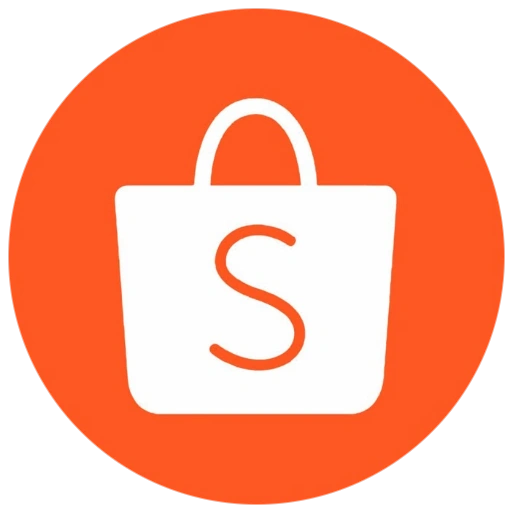
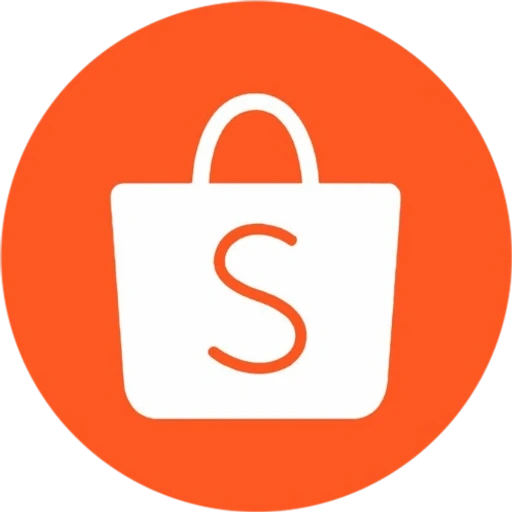
Correção

diff --git a/src/components/subscriptions/SubscriptionLogo.tsx b/src/components/subscriptions/SubscriptionLogo.tsx
@@ -59,13 +59,13 @@ export const SubscriptionLogo: React.FC<SubscriptionLogoProps> = ({
   const badgeSize = Math.max(16, Math.round(size * 0.40));
   const iconSize = Math.round(size * 0.52);
 
-  // Helper para renderizar logos oficiais com acabamento perfeito
+  // Helper para renderizar logos oficiais com acabamento perfeito (sem bordas ou anéis artificiais)
   const renderOfficialLogo = (
     src: string,
     alt: string,
     bgColor = 'transparent',
-    imgScale = '82%',
-    objectFit: 'contain' | 'cover' = 'contain'
+    imgScale = '100%',
+    objectFit: 'contain' | 'cover' = 'cover'
   ) => (
     <div
       style={{
@@ -96,7 +96,7 @@ export const SubscriptionLogo: React.FC<SubscriptionLogoProps> = ({
   const renderBrandContent = () => {
     // 1. Netflix (Logo Oficial)
     if (normName.includes('netflix')) {
-      return renderOfficialLogo(netflixImg, 'Netflix', '#000000');
+      return renderOfficialLogo(netflixImg, 'Netflix', '#000000', '100%', 'cover');
     }
 
     // 2. Spotify (Logo Oficial)
@@ -106,7 +106,7 @@ export const SubscriptionLogo: React.FC<SubscriptionLogoProps> = ({
       normName.startsWith('spot*') ||
       normName.includes('spot ')
     ) {
-      return renderOfficialLogo(spotifyImg, 'Spotify', '#1ED760');
+      return renderOfficialLogo(spotifyImg, 'Spotify', '#1ED760', '100%', 'cover');
     }
 
     // 3. Amazon Prime / Prime Video (Logo Oficial) - Apenas se for explicitamente Prime Video ou Amazon Prime
@@ -118,7 +118,7 @@ export const SubscriptionLogo: React.FC<SubscriptionLogoProps> = ({
       normName === 'prime';
 
     if (isPrimeVideo) {
-      return renderOfficialLogo(primeVideoImg, 'Prime Video', '#00A8E1');
+      return renderOfficialLogo(primeVideoImg, 'Prime Video', '#00A8E1', '100%', 'cover');
     }
 
     // 4. Amazon (Compras / E-commerce) - Logo Oficial com a seta sorridente
@@ -128,7 +128,7 @@ export const SubscriptionLogo: React.FC<SubscriptionLogoProps> = ({
       normName.startsWith('amz*') ||
       normName.startsWith('amazon*')
     ) {
-      return renderOfficialLogo(amazonImg, 'Amazon', '#FFFFFF');
+      return renderOfficialLogo(amazonImg, 'Amazon', '#FFFFFF', '100%', 'cover');
     }
 
     // 4. Max / HBO Max (Logo Oficial)
@@ -138,7 +138,7 @@ export const SubscriptionLogo: React.FC<SubscriptionLogoProps> = ({
       normName.includes('hbo max') ||
       /\bmax\b/i.test(normName)
     ) {
-      return renderOfficialLogo(maxImg, 'Max', '#000000');
+      return renderOfficialLogo(maxImg, 'Max', '#000000', '100%', 'cover');
     }
 
     // 5. Disney+ (Logo Oficial)
@@ -147,7 +147,7 @@ export const SubscriptionLogo: React.FC<SubscriptionLogoProps> = ({
       normName.includes('disney+') ||
       normName.includes('disney plus')
     ) {
-      return renderOfficialLogo(disneyPlusImg, 'Disney+', '#042442');
+      return renderOfficialLogo(disneyPlusImg, 'Disney+', '#042442', '100%', 'cover');
     }
 
     // 6. Xbox / Game Pass (Logo Oficial)
@@ -212,7 +212,7 @@ export const SubscriptionLogo: React.FC<SubscriptionLogoProps> = ({
 
     // 8. iFood / iFood Clube (Logo Oficial)
     if (normName.includes('ifood') || normName.includes('i food')) {
-      return renderOfficialLogo(ifoodImg, 'iFood', '#EA1D2C');
+      return renderOfficialLogo(ifoodImg, 'iFood', '#EA1D2C', '100%', 'cover');
     }
 
     // 9. 99 Food (Logo Oficial)
@@ -223,7 +223,7 @@ export const SubscriptionLogo: React.FC<SubscriptionLogoProps> = ({
       normName.includes('99-food') ||
       /99.*food/i.test(normName)
     ) {
-      return renderOfficialLogo(app99FoodImg, '99 Food', '#FFDD00');
+      return renderOfficialLogo(app99FoodImg, '99 Food', '#FFDD00', '100%', 'cover');
     }
 
     // 10. 99 / 99 Corridas / 99 Pop / 99 Taxi / 99 Pay (Logo Oficial)
@@ -249,12 +249,12 @@ export const SubscriptionLogo: React.FC<SubscriptionLogoProps> = ({
         /(?:^|\s)99(?:\s|$)/.test(normName)
       )
     ) {
-      return renderOfficialLogo(app99Img, '99', '#F9C002');
+      return renderOfficialLogo(app99Img, '99', '#F9C002', '100%', 'cover');
     }
 
     // 11. Uber / Uber One (Logo Oficial)
     if (normName.includes('uber')) {
-      return renderOfficialLogo(uberImg, 'Uber', '#000000');
+      return renderOfficialLogo(uberImg, 'Uber', '#000000', '100%', 'cover');
     }
 
     // 10. Google / Google One (Logo Oficial)
@@ -263,7 +263,7 @@ export const SubscriptionLogo: React.FC<SubscriptionLogoProps> = ({
       normName.includes('gsuite') ||
       normName.includes('workspace')
     ) {
-      return renderOfficialLogo(googleImg, 'Google', '#FFFFFF');
+      return renderOfficialLogo(googleImg, 'Google', '#FFFFFF', '100%', 'cover');
     }
 
     // 11. ChatGPT / OpenAI (Logo Oficial)
@@ -273,12 +273,12 @@ export const SubscriptionLogo: React.FC<SubscriptionLogoProps> = ({
       normName.includes('openai') ||
       normName.includes('open ai')
     ) {
-      return renderOfficialLogo(chatgptImg, 'ChatGPT', '#FFFFFF');
+      return renderOfficialLogo(chatgptImg, 'ChatGPT', '#FFFFFF', '100%', 'cover');
     }
 
     // 12. Canva / Canva Pro (Logo Oficial)
     if (normName.includes('canva')) {
-      return renderOfficialLogo(canvaImg, 'Canva', '#00C4CC');
+      return renderOfficialLogo(canvaImg, 'Canva', '#00C4CC', '100%', 'cover');
     }
 
     // 13. Meli+ (Assinatura Oficial) — inclui 'meli' sozinho
@@ -289,7 +289,7 @@ export const SubscriptionLogo: React.FC<SubscriptionLogoProps> = ({
       normName.includes('meli mais') ||
       normName === 'meli'
     ) {
-      return renderOfficialLogo(meliPlusImg, 'Meli+', '#7E00B3');
+      return renderOfficialLogo(meliPlusImg, 'Meli+', '#7E00B3', '100%', 'cover');
     }
 
     // 14. Mercado Livre (Compras) — apenas nomes explícitos de Mercado Livre
@@ -299,7 +299,7 @@ export const SubscriptionLogo: React.FC<SubscriptionLogoProps> = ({
       normName.startsWith('mercadolivre*') ||
       normName.startsWith('mercado*livre')
     ) {
-      return renderOfficialLogo(mercadoLivreImg, 'Mercado Livre', '#FFFFFF');
+      return renderOfficialLogo(mercadoLivreImg, 'Mercado Livre', '#FFFFFF', '100%', 'cover');
     }
 
     // 14b. Mercado Pago (Carteira / Banco)
@@ -336,7 +336,7 @@ export const SubscriptionLogo: React.FC<SubscriptionLogoProps> = ({
       normName.startsWith('shopee*') ||
       normName.startsWith('shoppe*')
     ) {
-      return renderOfficialLogo(shopeeImg, 'Shopee', '#EE4D2D');
+      return renderOfficialLogo(shopeeImg, 'Shopee', '#EE4D2D', '100%', 'cover');
     }
 
     // 16. Shein (Moda & E-commerce) - Logo Oficial
@@ -426,7 +426,7 @@ export const SubscriptionLogo: React.FC<SubscriptionLogoProps> = ({
 
     // 23. Deezer (Logo Oficial)
     if (normName.includes('deezer')) {
-      return renderOfficialLogo(deezerImg, 'Deezer', '#7B16FF');
+      return renderOfficialLogo(deezerImg, 'Deezer', '#7B16FF', '100%', 'cover');
     }
 
     // 15. UVA / Universidade / Faculdade
@@ -624,7 +624,6 @@ export const SubscriptionLogo: React.FC<SubscriptionLogoProps> = ({
             height: `${badgeSize}px`,
             borderRadius: '50%',
             backgroundColor: '#13161A',
-            boxShadow: '0 0 0 2px #13161A, 0 2px 4px rgba(0, 0, 0, 0.5)',
             display: 'flex',
             alignItems: 'center',
             justifyContent: 'center',
@@ -632,7 +631,7 @@ export const SubscriptionLogo: React.FC<SubscriptionLogoProps> = ({
             zIndex: 2,
           }}
         >
-          <BankLogo bankId={bankId} size={badgeSize} style={{ borderRadius: '50%' }} />
+          <BankLogo bankId={bankId} size={badgeSize} style={{ borderRadius: '50%', boxShadow: 'none' }} />
         </div>
       )}
     </div>

diff --git a/src/components/modals/TransactionModal.tsx b/src/components/modals/TransactionModal.tsx
@@ -1903,7 +1903,7 @@ export const TransactionModal: React.FC<TransactionModalProps> = ({
                               height: '32px',
                               borderRadius: '10px',
                               backgroundColor: 'rgba(255, 255, 255, 0.05)',
-                              border: '1px solid rgba(255, 255, 255, 0.06)',
+                              border: 'none',
                               color: '#E2E8F0',
                               display: 'flex',
                               alignItems: 'center',
@@ -3795,7 +3795,7 @@ export const TransactionModal: React.FC<TransactionModalProps> = ({
                                 height: '38px',
                                 borderRadius: '12px',
                                 backgroundColor: isSelected ? 'rgba(255, 255, 255, 0.12)' : 'rgba(255, 255, 255, 0.05)',
-                                border: isSelected ? '1px solid rgba(255, 255, 255, 0.15)' : '1px solid rgba(255, 255, 255, 0.06)',
+                                border: 'none',
                                 color: isSelected ? '#FFFFFF' : '#CBD5E1',
                                 display: 'flex',
                                 alignItems: 'center',

diff --git a/src/screens/NotificationDetectorScreen.tsx b/src/screens/NotificationDetectorScreen.tsx
@@ -962,7 +962,6 @@ export const NotificationDetectorScreen: React.FC<NotificationDetectorScreenProp
                                   height: '18px',
                                   borderRadius: '50%',
                                   backgroundColor: '#13161A',
-                                  boxShadow: '0 0 0 2px #13161A, 0 2px 4px rgba(0, 0, 0, 0.5)',
                                   display: 'flex',
                                   alignItems: 'center',
                                   justifyContent: 'center',
@@ -973,7 +972,7 @@ export const NotificationDetectorScreen: React.FC<NotificationDetectorScreenProp
                                 <BankLogo
                                   bankId={pending.bankId || pending.bankName}
                                   size={18}
-                                  style={{ borderRadius: '50%' }}
+                                  style={{ borderRadius: '50%', boxShadow: 'none' }}
                                 />
                               </div>
                             )}

diff --git a/src/screens/BudgetsScreen.tsx b/src/screens/BudgetsScreen.tsx
@@ -987,7 +987,7 @@ export const BudgetsScreen: React.FC<BudgetsScreenProps> = ({
                             height: '42px',
                             borderRadius: '13px',
                             backgroundColor: 'rgba(255, 255, 255, 0.05)',
-                            border: '1px solid rgba(255, 255, 255, 0.08)',
+                            border: 'none',
                             display: 'flex',
                             alignItems: 'center',
                             justifyContent: 'center',
@@ -1363,7 +1363,7 @@ export const BudgetsScreen: React.FC<BudgetsScreenProps> = ({
                             height: '40px',
                             borderRadius: '12px',
                             backgroundColor: 'rgba(255, 255, 255, 0.05)',
-                            border: '1px solid rgba(255, 255, 255, 0.08)',
+                            border: 'none',
                             display: 'flex',
                             alignItems: 'center',
                             justifyContent: 'center',

diff --git a/src/screens/TransactionsScreen.tsx b/src/screens/TransactionsScreen.tsx
@@ -802,14 +802,13 @@ export const TransactionsScreen: React.FC<TransactionsScreenProps> = ({
                                   height: '18px',
                                   borderRadius: '50%',
                                   backgroundColor: '#121316',
-                                  boxShadow: '0 0 0 2px #121316',
                                   display: 'flex',
                                   alignItems: 'center',
                                   justifyContent: 'center',
                                   overflow: 'hidden',
                                 }}
                               >
-                                <BankLogo bankId={acc.bankId || acc.name} size={14} />
+                                <BankLogo bankId={acc.bankId || acc.name} size={14} style={{ boxShadow: 'none' }} />
                               </div>
                             )}
                           </div>

diff --git a/src/components/budgets/ThreeBucketsView.tsx b/src/components/budgets/ThreeBucketsView.tsx
@@ -82,7 +82,7 @@ export const ThreeBucketsView: React.FC<ThreeBucketsViewProps> = ({
               height: '38px',
               borderRadius: '11px',
               backgroundColor: 'rgba(255, 255, 255, 0.05)',
-              border: '1px solid rgba(255, 255, 255, 0.08)',
+              border: 'none',
               display: 'flex',
               alignItems: 'center',
               justifyContent: 'center',
@@ -329,7 +329,7 @@ export const ThreeBucketsView: React.FC<ThreeBucketsViewProps> = ({
                         height: '26px',
                         borderRadius: '7px',
                         backgroundColor: 'rgba(255, 255, 255, 0.05)',
-                        border: '1px solid rgba(255, 255, 255, 0.08)',
+                        border: 'none',
                         display: 'flex',
                         alignItems: 'center',
                         justifyContent: 'center',

diff --git a/src/components/modals/MonthCategoriesModal.tsx b/src/components/modals/MonthCategoriesModal.tsx
@@ -553,7 +553,7 @@ export const MonthCategoriesModal: React.FC<MonthCategoriesModalProps> = ({
                             height: '40px',
                             borderRadius: '50%',
                             backgroundColor: 'rgba(255, 255, 255, 0.05)',
-                            border: '1px solid rgba(255, 255, 255, 0.08)',
+                            border: 'none',
                             display: 'flex',
                             alignItems: 'center',
                             justifyContent: 'center',

diff --git a/src/screens/GoalDetailScreen.tsx b/src/screens/GoalDetailScreen.tsx
@@ -1171,7 +1171,7 @@ export const GoalDetailScreen: React.FC<GoalDetailScreenProps> = ({
                         height: '36px',
                         borderRadius: '11px',
                         backgroundColor: 'rgba(255, 255, 255, 0.05)',
-                        border: '1px solid rgba(255, 255, 255, 0.08)',
+                        border: 'none',
                         display: 'flex',
                         alignItems: 'center',
                         justifyContent: 'center',

diff --git a/src/screens/CategoriesScreen.tsx b/src/screens/CategoriesScreen.tsx
@@ -344,7 +344,7 @@ export const CategoriesScreen: React.FC<CategoriesScreenProps> = ({
                         height: '42px',
                         borderRadius: '13px',
                         backgroundColor: 'rgba(255, 255, 255, 0.05)',
-                        border: '1px solid rgba(255, 255, 255, 0.08)',
+                        border: 'none',
                         color: cat.color,
                         display: 'flex',
                         alignItems: 'center',

diff --git a/src/components/modals/GoalModal.tsx b/src/components/modals/GoalModal.tsx
@@ -366,7 +366,7 @@ export const GoalModal: React.FC<GoalModalProps> = ({
                   height: '28px',
                   borderRadius: '8px',
                   backgroundColor: 'rgba(255, 255, 255, 0.05)',
-                  border: '1px solid rgba(255, 255, 255, 0.08)',
+                  border: 'none',
                   display: 'flex',
                   alignItems: 'center',
                   justifyContent: 'center',
